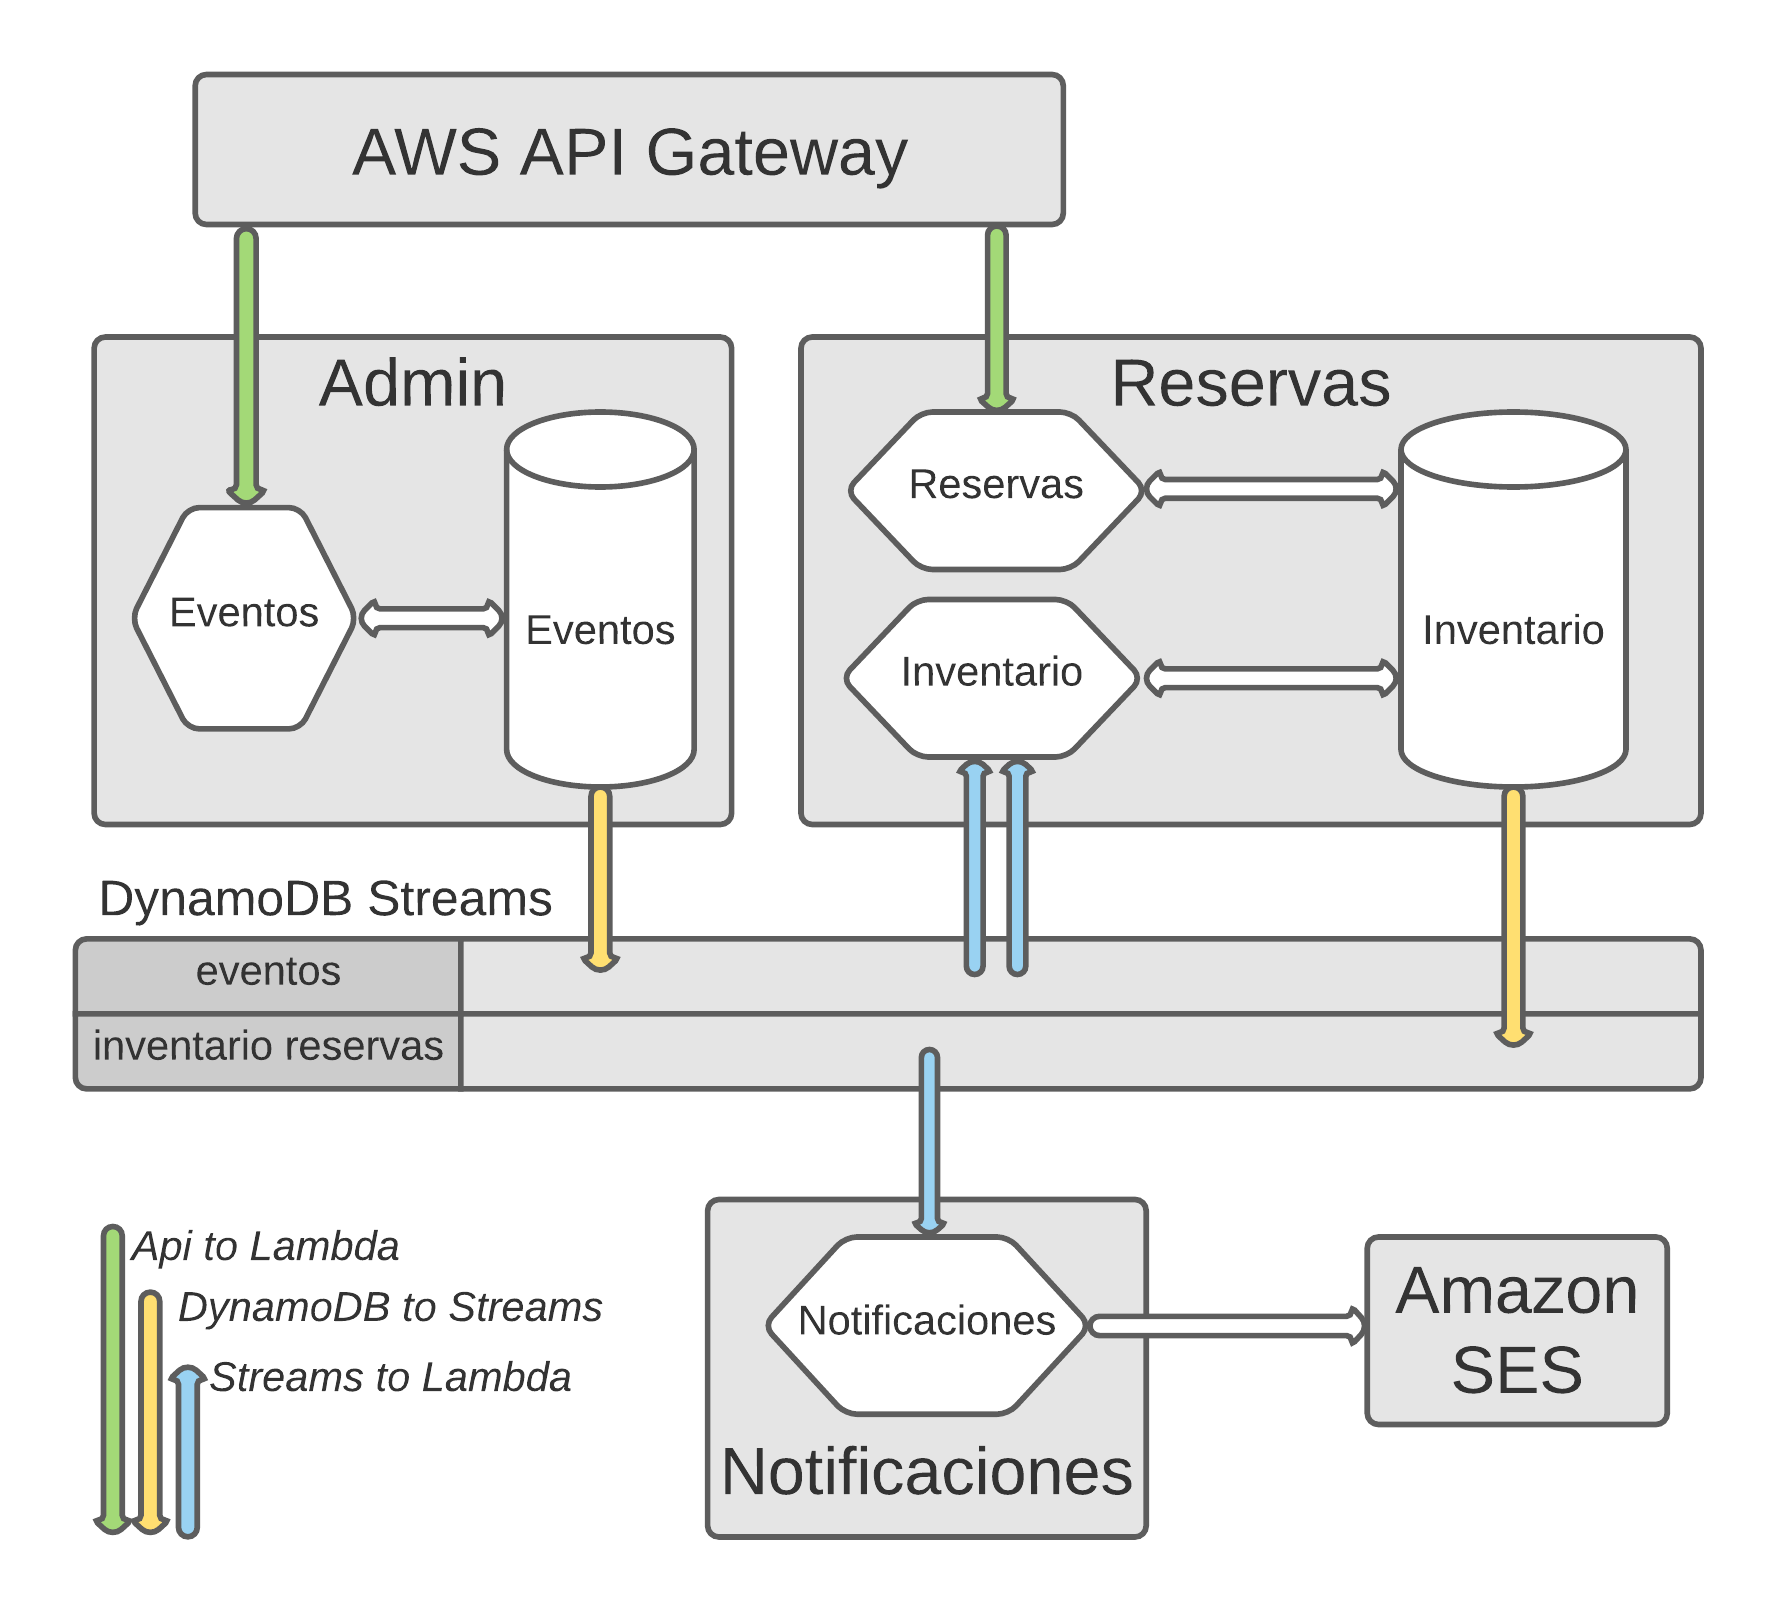
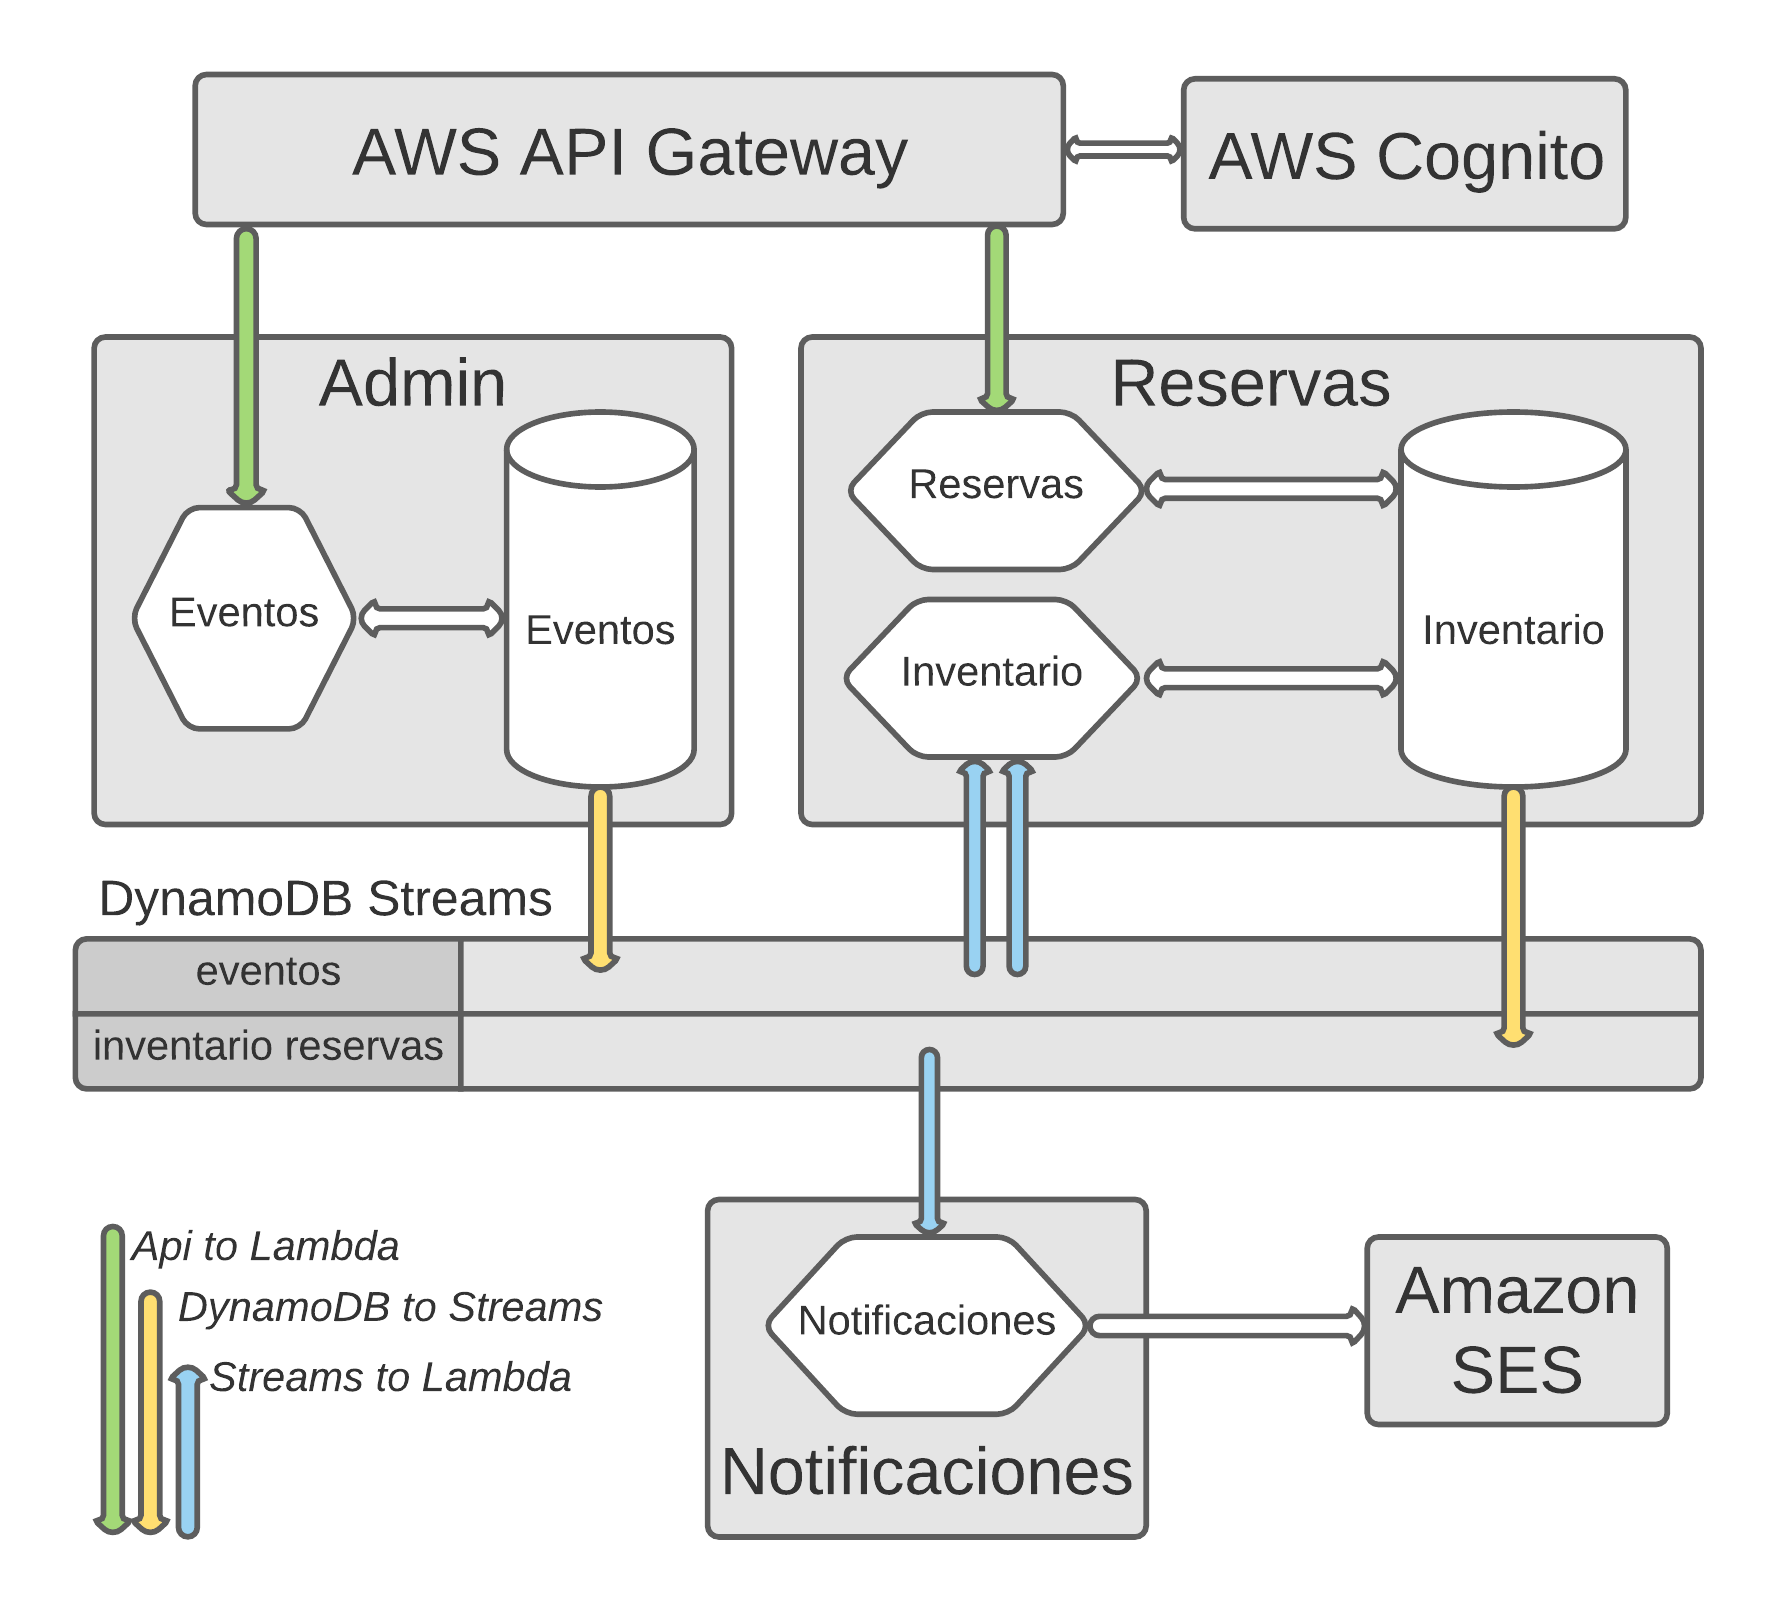
Agregando seguridad Cognito

Changed region(s): [[0.6194, 0.031, 0.9291, 0.155]]

diff --git a/authToken/main.go b/authToken/main.go
@@ -1,0 +1,59 @@
+package main
+
+import (
+	"context"
+	"encoding/json"
+	"net/http"
+
+	"github.com/aws/aws-lambda-go/events"
+	"github.com/aws/aws-lambda-go/lambda"
+	"github.com/aws/aws-sdk-go-v2/aws"
+	cognito "github.com/aws/aws-sdk-go-v2/service/cognitoidentityprovider"
+	cognitotypes "github.com/aws/aws-sdk-go-v2/service/cognitoidentityprovider/types"
+)
+
+type User struct {
+	Username string `json:"username"`
+	Password string `json:"password"`
+}
+
+func authToken(request events.APIGatewayProxyRequest) (events.APIGatewayProxyResponse, error) {
+	var user User
+	err := json.Unmarshal([]byte(request.Body), &user)
+	if err != nil {
+		return events.APIGatewayProxyResponse{
+			StatusCode: 400,
+			Body:       "Invalid payload",
+		}, nil
+	}
+
+	cognitoClient := cognito.New(cognito.Options{
+		Region: "us-west-2",
+	})
+	authTry := &cognito.InitiateAuthInput{
+		AuthFlow: cognitotypes.AuthFlowTypeUserPasswordAuth,
+		AuthParameters: map[string]string{
+			"USERNAME": user.Username,
+			"PASSWORD": user.Password,
+		},
+		ClientId: aws.String("54qcmhjf62m3305453ls4ujq40"),
+	}
+	res, err := cognitoClient.InitiateAuth(context.TODO(), authTry)
+	if err != nil {
+		return events.APIGatewayProxyResponse{
+			StatusCode: http.StatusBadRequest,
+			Body:       err.Error(),
+		}, nil
+	}
+	return events.APIGatewayProxyResponse{
+		StatusCode: 200,
+		Headers: map[string]string{
+			"Content-Type": "application/json",
+		},
+		Body: `{ "Authorization": "` + *res.AuthenticationResult.IdToken + `"}`,
+	}, nil
+}
+
+func main() {
+	lambda.Start(authToken)
+}

diff --git a/README.md b/README.md
@@ -9,13 +9,25 @@ https://github.com/avaco2312/boletia-kubernetes-kafka-mongodb
 https://github.com/avaco2312/kubernetes-kafka-cluster
 https://github.com/avaco2312/kubernetes-mongodb-replicaset
 
-El objetivo ahora es realizar una prueba similar, pero soportada esta vez sobre los servicios Serverless de Amazon Web Services. Usaremos los servicios Api Gateway, Lambda, DynamoDB y DynamoDB Streams.
+El objetivo ahora es realizar una prueba similar, pero soportada esta vez sobre los servicios Serverless de Amazon Web Services. Usaremos los servicios Api Gateway, Lambda, DynamoDB, DynamoDB Streams y Cognito.
 
 Los puntos de entrada del backend Boletia serán los mismos, lo que ahora el acceso es a través de Api Gateway, conectados a funciones Lambda. Los datos estarán soportados sobre DynamoDB.
 
 En el esquema del inicio ahora los cilindros son tablas de DynamoDB y los hexágonos conjuntos de funciones Lambda. Para la comunicación entre los microservicios, en lugar de Kafka,  usamos ahora DynamoDB Streams, que disparan funciones Lambda.
 
-El esquema del Api Gateway definido está en apiGateway/Boletia-produccion-oas30-apigateway.yaml. Describamos los puntos de llamada del backend:
+El esquema del Api Gateway definido está en apiGateway/Boletia-produccion-oas30-apigateway.yaml. 
+
+Los puntos de entrada del API Gateway están protegidos mediante autenticación de AWS Cognito. Será necesario, previo a una llamada al API, solicitar un token de acceso en el punto de entrada /token, suministrando el nombre y password de usuario:
+
+```code
+curl -X POST https://oy7rgdejtk.execute-api.us-west-2.amazonaws.com/produccion/token
+-d '{
+    "username":"nombre","password": "password"
+}'
+```
+El token obtenido deberá agregarse como header "Authorization" en cada llamada al API.
+
+Describamos los puntos de llamada del backend:
 
 Dominio Admin.
 
@@ -301,7 +313,7 @@ Su reserva 21tC9y2lJr3Aj1RQu6miT5usxf0 de 3 boletos para el evento Opera Aida fu
 Su reserva 21tY2WfhKPDj0TDulNRlu2yszl4 de 1 boletos para el evento Opera Aida fue cancelada, el evento fue suspendido por los organizadores
 ```
 
-Todo el deploy de Boletia en AWS pudiera hacerse automáticamente. Aquí lo hemos hecho mediante la consola AWS web. A lo mejor en un próximo proyecto lo presentamos, así como proteger nuestra API con Cognito, etc. Pero por el momento, habría muchos detalles por ver, pero uno resalta por su importancia: los permisos. A todas las funciones lambda que usamos hay que concederle los permisos que necesitan. Sin entrar en los detalles:
+Todo el deploy de Boletia en AWS pudiera hacerse automáticamente. Aquí lo hemos hecho mediante la consola AWS web. A lo mejor en un próximo proyecto lo desarrollamos, pero por el momento, hay muchos detalles por ver y uno resalta por su importancia: los permisos. A todas las funciones lambda que usamos hay que concederle los permisos que necesitan. Sin entrar en los detalles:
 
 - Todas necesitan el permiso básico de ejecución, mediante la política AWSLambdaBasicExecutionRole.
 - A las que son llamadas por API Gateway hay que agregarle los permisos para las operaciones de DynamoDB que ejecuten. Por ejemplo, para la función findReservaId una política adicional expresada por :
